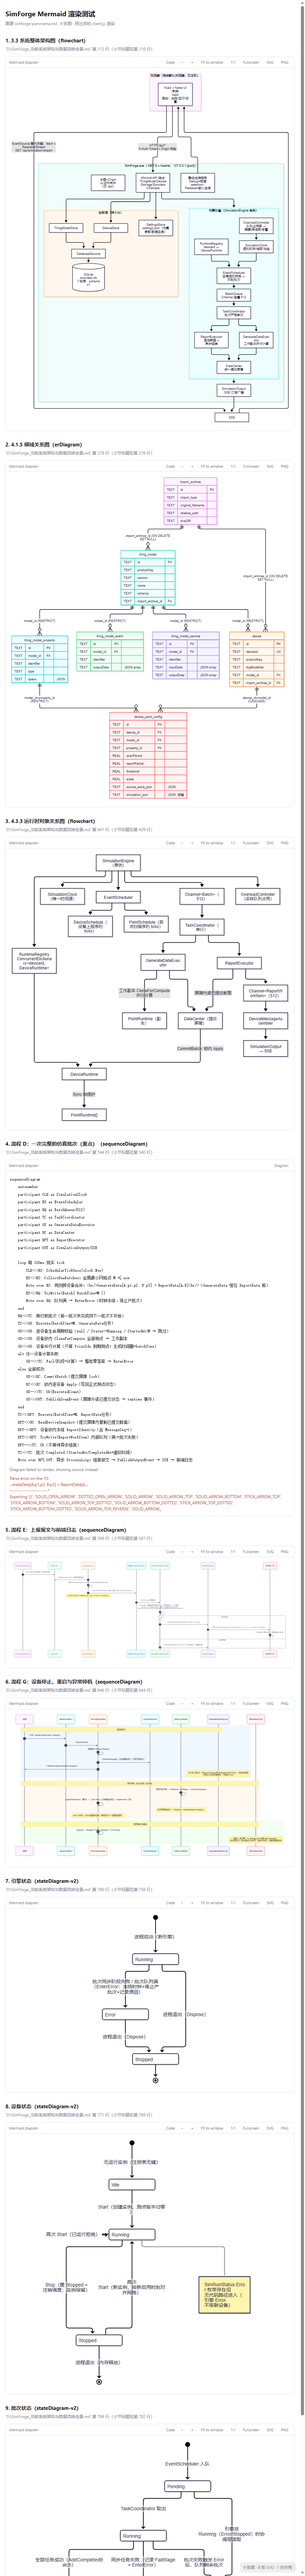
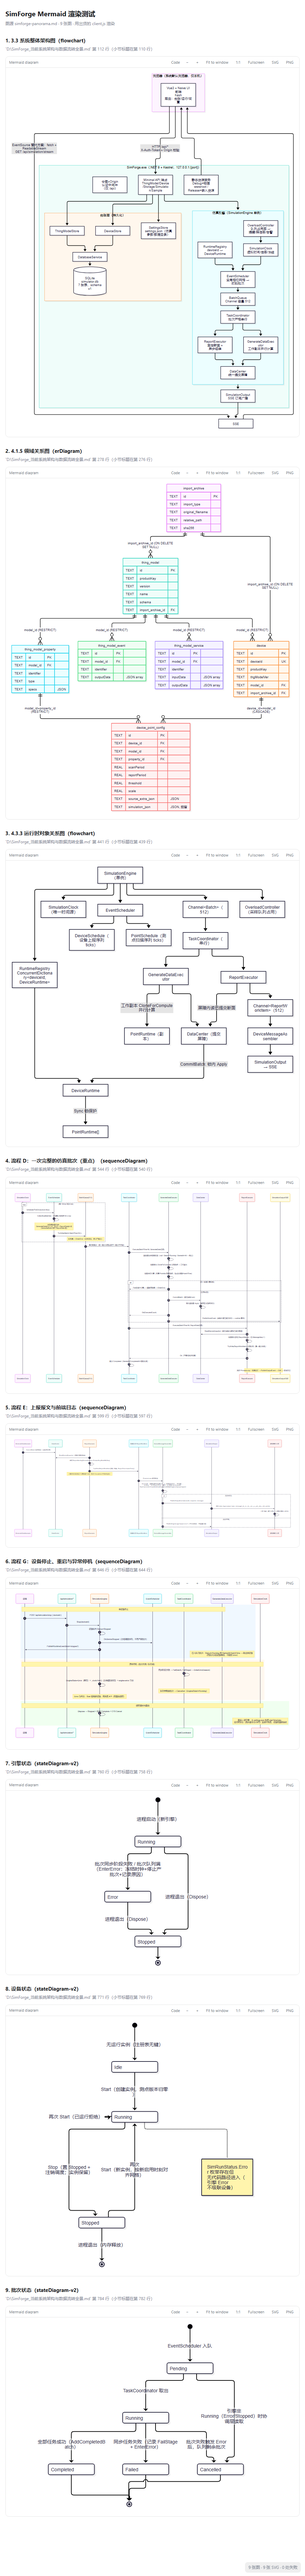
修正全景图流程 D 的分号：原文改全角，图集 9/9

diff --git a/README.md b/README.md
@@ -204,10 +204,10 @@ Worked example — the SimForge architecture document has 9 Mermaid blocks:
 ```sh
 node tools/extract-mermaid.mjs "D:\SimForge_当前系统架构与数据流转全景.md" test/e2e/simforge-panorama.md
 node test/render-page.mjs --md=simforge-panorama.md --out=docs/simforge-panorama.png
-# simforge.html?md=simforge-panorama.md: 8/9 rendered, 1 failed
+# simforge.html?md=simforge-panorama.md: 9/9 rendered, 0 failed
 ```
 
-The ninth fails on purpose: that diagram's `Note` writes `GenerateData[A:p1,p2; B:p3]`, and Mermaid treats the ASCII `;` inside a `sequenceDiagram` as a statement separator (`Parse error on line 15`). The extracted file keeps the source verbatim, so the failure is visible instead of hidden; `test/e2e/simforge-complex.md` is the same diagram with a full-width `；`. Result sheet: [docs/simforge-panorama.png](docs/simforge-panorama.png).
+That document used to fail on one diagram: its `Note` wrote `GenerateData[A:p1,p2; B:p3]`, and Mermaid treats an ASCII `;` inside a `sequenceDiagram` as a statement separator (`Parse error on line 15`). The source now uses a full-width `；`, so all nine render; the extractor still copies verbatim, which is how the defect surfaced in the first place. Result sheet: [docs/simforge-panorama.png](docs/simforge-panorama.png).
 
 ## License
 
@@ -250,7 +250,7 @@ node test/render-page.mjs --md=<名字>.md --out=docs/<名字>.png
 
 ```sh
 node test/render-page.mjs --md=simforge-panorama.md --out=docs/simforge-panorama.png
-# simforge.html?md=simforge-panorama.md: 8/9 rendered, 1 failed
+# simforge.html?md=simforge-panorama.md: 9/9 rendered, 0 failed
 ```
 
-失败的那张是原文缺陷：`Note` 里 `GenerateData[A:p1,p2; B:p3]` 用了半角 `;`，Mermaid 在 `sequenceDiagram` 中把它当语句分隔符（`Parse error on line 15`）。抽取文件保持逐字，所以失败会暴露；`test/e2e/simforge-complex.md` 里是把它改成全角 `；` 的版本。整页结果：[docs/simforge-panorama.png](docs/simforge-panorama.png)。
+这份文档以前有一张图渲染失败：`Note` 里 `GenerateData[A:p1,p2; B:p3]` 用了半角 `;`，Mermaid 在 `sequenceDiagram` 中把它当语句分隔符（`Parse error on line 15`）。原文已改成全角 `；`，现在 9 张全部通过；抽取工具坚持逐字复制，也正是这个缺陷当初能被发现的原因。整页结果：[docs/simforge-panorama.png](docs/simforge-panorama.png)。

diff --git a/docs/渲染核心改造与本机验证.md b/docs/渲染核心改造与本机验证.md
@@ -23,7 +23,7 @@
 
 新增 `test/e2e/simforge-complex.md` 与 `test/e2e/simforge.html`：从 `D:\code\SimForge\docs` 抽出 8 张复杂图（含 4 层嵌套 subgraph 的架构图、11 实体 ER 图、8 参与者时序图、状态机），用出货的 `client.js` 在本地页面渲染，8/8 通过，0 处解析失败。整页截图：`docs/simforge-test.png`。
 
-**逐字复核（2026-11-15）**：上面这 8 张并非原文逐字——缩进被统一重排，且流程 D 的 `Note` 里半角分号被替换成了全角 `；`。改用 `tools/extract-mermaid.mjs` 从《SimForge_当前系统架构与数据流转全景.md》整篇逐字提炼 9 张图（`test/e2e/simforge-panorama.md`），`node test/render-page.mjs --md=simforge-panorama.md` 的结果是 **8/9**：流程 D 的 `Note over ES` 写作 `GenerateData[A:p1,p2; B:p3]`，Mermaid 12.2.0 在 sequenceDiagram 里把半角 `;` 当语句分隔符，报 `Parse error on line 15`。其余 8 张（含 11 实体 ER 图与三张状态机）均正常。整页截图：`docs/simforge-panorama.png`，失败的那张会回退显示源码与解析错误。
+**逐字复核（2026-11-15）**：上面这 8 张并非原文逐字——缩进被统一重排，且流程 D 的 `Note` 里半角分号被替换成了全角 `；`。改用 `tools/extract-mermaid.mjs` 从《SimForge_当前系统架构与数据流转全景.md》整篇逐字提炼 9 张图（`test/e2e/simforge-panorama.md`），`node test/render-page.mjs --md=simforge-panorama.md` 最初是 **8/9**：流程 D 的 `Note over ES` 写作 `GenerateData[A:p1,p2; B:p3]`，Mermaid 12.2.0 在 sequenceDiagram 里把半角 `;` 当语句分隔符，报 `Parse error on line 15`。**同日修正原文**（两份副本都改为全角 `；`），复测 **9/9**。整页截图：`docs/simforge-panorama.png`。
 
 回归数字（0.4.0）：`node test/run.mjs` 33/33（含真实 0.2.2-rc.1 Host 挂载）、`node test/run-e2e-headless.mjs` 45/45、`tools/pack-check.mjs` 11 文件 1569 kB。
 

diff --git a/test/e2e/simforge-complex.md b/test/e2e/simforge-complex.md
@@ -2,7 +2,7 @@
 
 从 `D:\code\SimForge\docs` 抽取的 8 张复杂图，用于在本地验证 dsh-mermaid-plus 的渲染、主题适配、缩放与全屏查看器。每张图下方标注了原始出处：其中 6 张出自《SimForge_当前系统架构与数据流转全景.md》的新版（`docs/design/current/`），2 张出自 `docs/guide/资源归属.md` 与 `docs/articles/drafts/01-从Mock数据到设备仿真.md`。
 
-> **这份不是逐字提炼**：图块统一重排了缩进；流程 D 的 `Note` 里原文是半角分号（`GenerateData[A:p1,p2; B:p3]`），Mermaid 会把它当语句分隔符而解析失败，这里改成了全角 `；` 才能渲染。逐字版本见 [`simforge-panorama.md`](simforge-panorama.md)（9 张，含该失败的原始形态）。
+> **这份不是逐字提炼**：图块统一重排了缩进；流程 D 的 `Note` 里原文是半角分号（`GenerateData[A:p1,p2; B:p3]`），Mermaid 会把它当语句分隔符而解析失败，这里用的是全角 `；`。原文已于 2026-11-15 改成全角，逐字版本见 [`simforge-panorama.md`](simforge-panorama.md)（9 张，现已全部渲染通过）。
 
 > 用途：`node test/serve-e2e.mjs` 后在浏览器打开 `http://127.0.0.1:8732/simforge.html`
 > 也能作为普通 Markdown 在 DSH 的文档预览里直接查看（插件会装饰任何 `<pre>` 里的 Mermaid）。

diff --git a/test/e2e/simforge-panorama.md b/test/e2e/simforge-panorama.md
@@ -6,8 +6,6 @@
 
 > 图块内容与原文逐字一致；每块下方标注原文标题与行号（1-based，行号指 ```mermaid 围栏所在行）。
 
-> 逐字保真：第 4 张（流程 D）的 Note 用半角分号 `GenerateData[A:p1,p2; B:p3]`，Mermaid 12.2.0 在 sequenceDiagram 里把 `;` 当语句分隔符，因此解析失败——这是原文缺陷，故意保留；改好分号的那份见 `simforge-complex.md`。
-
 ---
 
 ## 1. 3.3 系统整体架构图（flowchart）
@@ -187,7 +185,7 @@ sequenceDiagram
     loop 每 100ms 现实 tick
         CLK->>ES: SchedulerTickOnce(clock.Now)
         ES->>ES: CollectDueBatches：全局最小网格点 M ≤ now
-        Note over ES: 同刻跨设备合并：<br/>GenerateData[A:p1,p2; B:p3] + ReportData[A,B]<br/>（GenerateData 恒在 ReportData 前）
+        Note over ES: 同刻跨设备合并：<br/>GenerateData[A:p1,p2；B:p3] + ReportData[A,B]<br/>（GenerateData 恒在 ReportData 前）
         ES->>BQ: TryWrite(Batch{ BatchTime=M })
         Note over BQ: 队列满 → EnterError（时钟冻结、停止产批次）
     end

diff --git a/docs/development.md b/docs/development.md
@@ -38,8 +38,9 @@ node test/render-page.mjs --md=simforge-panorama.md --out=docs/simforge-panorama
 first lines of each failed diagram, so a screenshot and a pass/fail check are one
 command. `simforge-panorama.md` is the verbatim extraction of all nine diagrams in
 《SimForge_当前系统架构与数据流转全景》 (generated by `tools/extract-mermaid.mjs`);
-8 of the 9 render — the batch sequence diagram's `Note` uses an ASCII `;` inside
-`GenerateData[A:p1,p2; B:p3]`, which Mermaid treats as a statement separator.
+all nine render. The batch sequence diagram used to fail because its `Note` wrote
+`GenerateData[A:p1,p2; B:p3]` — an ASCII `;` is a statement separator inside a
+`sequenceDiagram`; the source now uses a full-width `；`.
 
 `test/e2e/index.html` loads the **shipped** `client.js`, the real vendored Mermaid, real React, and a DOM that looks like the Chat renderer's Markdown. Add a fixture there for the case you are fixing — a new fence shape, a theme, a viewer interaction — and iterate with a browser refresh instead of an app restart.
 

diff --git a/docs/index.md b/docs/index.md
@@ -6,7 +6,7 @@
 
 - [development.md](development.md)：上游开发与浏览器验证方法。
 - [simforge-test.png](simforge-test.png)：本地 8 张 SimForge 复杂图整页渲染效果（0.4.0）。
-- [simforge-panorama.png](simforge-panorama.png)：《当前系统架构与数据流转全景》9 张图逐字提炼后的整页渲染，8/9（流程 D 的 Note 用半角分号，Mermaid 解析失败）。
+- [simforge-panorama.png](simforge-panorama.png)：《当前系统架构与数据流转全景》9 张图逐字提炼后的整页渲染，9/9（原流程 D 的半角分号已修正）。
 - [real-app-chat.png](real-app-chat.png)：web profile 真机对话中渲染的 Mermaid 卡片（DSH 0.2.2-rc.1）。
 - [card.png](card.png)：上游图表卡片示例。
 - [viewer-dark.png](viewer-dark.png)：上游深色查看器示例。
